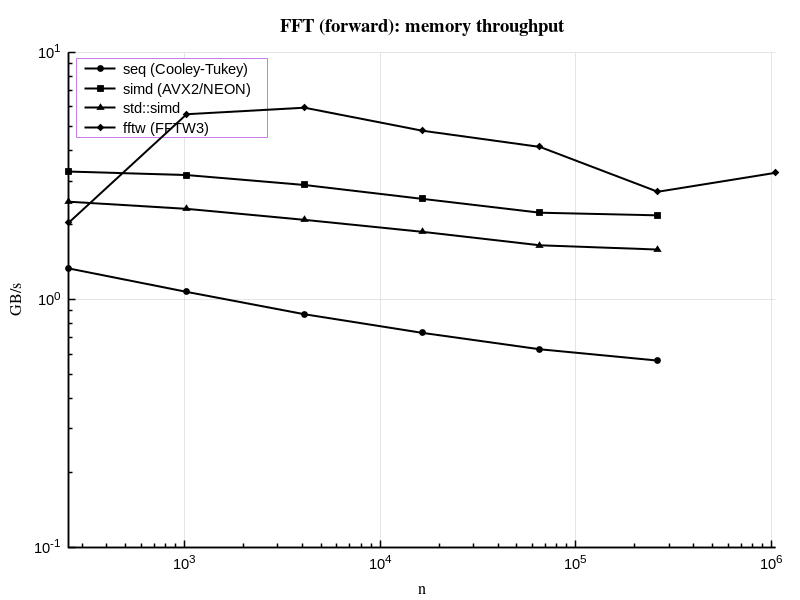
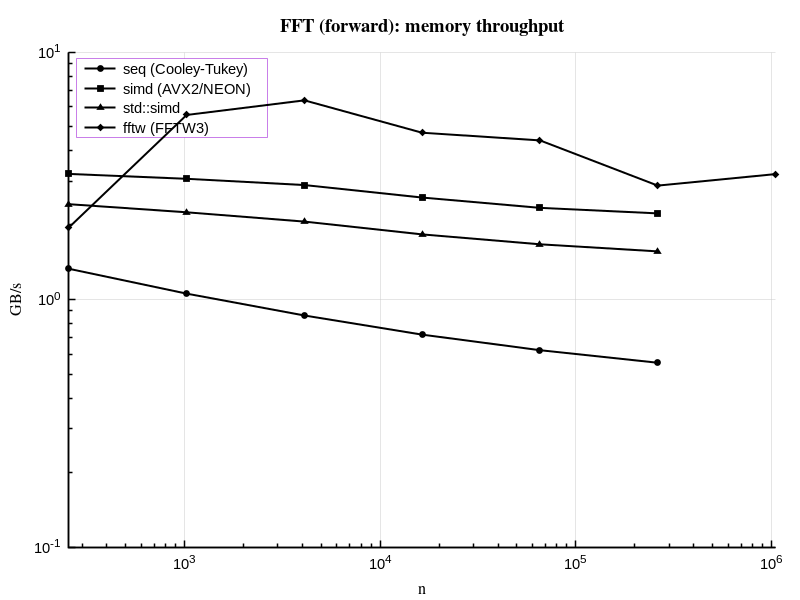
corrected plots in report

diff --git a/docs/report/index.html b/docs/report/index.html
@@ -21,7 +21,7 @@
 <div id="content"></div>
 <script>
 (function(){
-  var md = "# Numerics Library — Status Report\n\n> 2026-04-02 09:48 UTC · GNU 11.4.0 · Release\n\nAuto-generated by `make report`. Each section compares our implementation against the\nindustry-standard LAPACK\/BLAS reference. Sections without data show `[not available]`.\n\n---\n\n## Table of Contents\n\n- [Build Environment](#build-environment)\n- [Test Summary](#test-summary)\n- [Core — Vector and Matrix](#core--vector-and-matrix)\n  - [Benchmarks — Matrix Multiply](#benchmarks--matrix-multiply)\n  - [Benchmarks — Matrix-Vector Multiply](#benchmarks--matrix-vector-multiply)\n  - [Benchmarks — Dot Product](#benchmarks--dot-product)\n  - [Benchmarks — Axpy](#benchmarks--axpy)\n- [Factorizations](#factorizations)\n  - [LU Factorization](#lu-factorization)\n  - [QR Factorization](#qr-factorization)\n  - [Thomas Tridiagonal Solver](#thomas-tridiagonal-solver)\n- [Iterative Solvers](#iterative-solvers)\n  - [Conjugate Gradient](#conjugate-gradient)\n- [Banded Matrices](#banded-matrices)\n- [Eigensolvers](#eigensolvers)\n  - [Full Symmetric Eigensolver](#full-symmetric-eigensolver)\n  - [Lanczos (Matrix-Free)](#lanczos-matrix-free)\n- [Singular Value Decomposition](#singular-value-decomposition)\n  - [Full SVD](#full-svd)\n  - [Randomized Truncated SVD](#randomized-truncated-svd)\n- [Analysis](#analysis)\n- [Spectral — FFT](#spectral--fft)\n\n---\n\n## Build Environment\n\n### System\n\n| Property | Value |\n|----------|-------|\n| OS       | Linux |\n| CPU      | 8 core AMD Ryzen 7 7800X3D 8-Core Processor |\n| RAM      | 31269 MB (30.5 GB) |\n| GPU      | NVIDIA GeForce RTX 4070 SUPER |\n\n\n### Backends\n\n| Backend | Status | Notes |\n|---------|--------|-------|\n| BLAS \/ cblas | **found** | Backend::blas   -- cblas_dgemm, cblas_ddot, cblas_dgemv |\n| LAPACKE | **found** | Backend::lapack -- dgetrf, dgeqrf, dgesdd, dsyevd, dgtsv |\n| OpenMP | **found** | Backend::omp    -- parallel blocked loops |\n| FFTW3 | **found** | FFTBackend::fftw -- AVX2\/NEON optimised DFT |\n| CUDA | **found** | Backend::gpu    -- custom kernels \/ cuBLAS |\n| MPI | not found | distributed ops (experimental) |\n\n\n---\n\n## Test Summary\n\nAll test suites. A failed suite must be investigated before using the library in production.\n\n| Suite | Tests | Passed | Failed | Time |\n|-------|------:|-------:|-------:|-----:|\n| Vector | 7 | 7 | 0 | 0.0 ms |\n| Matrix | 5 | 5 | 0 | 0.0 ms |\n| MatmulPolicy | 1 | 1 | 0 | 0.0 ms |\n| MatvecPolicy | 1 | 1 | 0 | 0.0 ms |\n| CG | 3 | 3 | 0 | 0.0 ms |\n| Thomas | 3 | 3 | 0 | 0.0 ms |\n| GaussSeidel | 3 | 3 | 0 | 0.0 ms |\n| Jacobi | 3 | 3 | 0 | 0.0 ms |\n| GMRES | 4 | 4 | 0 | 0.0 ms |\n| SparseMatrix | 3 | 3 | 0 | 0.0 ms |\n| BandedMatrix | 6 | 6 | 0 | 0.0 ms |\n| BandedSolver | 11 | 11 | 0 | 70.0 ms |\n| BandedMatvec | 2 | 2 | 0 | 0.0 ms |\n| BandedNorm | 1 | 1 | 0 | 0.0 ms |\n| LU | 9 | 9 | 0 | 0.0 ms |\n| QR | 7 | 7 | 0 | 0.0 ms |\n| Roots | 9 | 9 | 0 | 0.0 ms |\n| Quadrature | 11 | 11 | 0 | 13.0 ms |\n| FFT | 13 | 13 | 0 | 2.0 ms |\n| FFTPlan | 4 | 4 | 0 | 61.0 ms |\n| ODE_Euler | 1 | 1 | 0 | 0.0 ms |\n| ODE_RK4 | 2 | 2 | 0 | 0.0 ms |\n| ODE_RK45 | 2 | 2 | 0 | 0.0 ms |\n| ODE_Stepper | 2 | 2 | 0 | 0.0 ms |\n| ODE_Verlet | 4 | 4 | 0 | 0.0 ms |\n| ODE_Yoshida4 | 3 | 3 | 0 | 0.0 ms |\n| EigSym_Jacobi | 3 | 3 | 0 | 0.0 ms |\n| EigSym_LAPACK | 3 | 3 | 0 | 0.0 ms |\n| PowerIteration | 1 | 1 | 0 | 0.0 ms |\n| Lanczos | 1 | 1 | 0 | 0.0 ms |\n| SVD_Jacobi | 3 | 3 | 0 | 0.0 ms |\n| SVD_LAPACK | 4 | 4 | 0 | 1.0 ms |\n| SVD_Randomized | 2 | 2 | 0 | 0.0 ms |\n\n\n---\n\n## Core — Vector and Matrix\n\n`Vector` and `Matrix` dispatch to the backend selected via the `Backend` enum\n(`seq → blocked → simd → blas → omp → gpu`). With BLAS available, `default_backend`\nresolves to `Backend::blas`.\n\n### Tests\n\n| Suite | Tests | Passed | Failed | Time |\n|-------|------:|-------:|-------:|-----:|\n| Vector | 7 | 7 | 0 | 0.0 ms |\n| Matrix | 5 | 5 | 0 | 0.0 ms |\n\n\n### Benchmarks — Matrix Multiply\n\nThroughput: `2 n³ \/ time` (GFLOP\/s, higher is better). Sizes n = 64…512.\n\n![Matrix multiply: GFLOP\/s vs n](plots\/matmul.png)\n\n\n| Variant | n=64 us | n=128 us | n=256 us | n=512 us |\n|---------|---------|----------|----------|----------|\n| naive | 148.1 | 1511.8 | 26663.7 | 424723.0 |\n| blocked (auto-vec) | 29.4 | 243.0 | 1956.3 | 19442.6 |\n| reg-blocked | 51.3 | 405.0 | 3308.9 | 27863.5 |\n| blocked | 30.1 | 243.1 | 1959.5 | 16421.1 |\n| simd | 16.0 | 132.1 | 1460.1 | 31236.4 |\n| blas | 11.1 | 32.0 | 139.1 | 1013.3 |\n| omp | 5727.5 | 5418.7 | 5283.2 | 5883.8 |\n| gpu | 0.3 | 0.3 | 0.3 | 0.3 |\n| Matmul_Scalar | 141.7 | 1360.1 | 24878.7 | 478828.8 |\n| Matmul_Scalar_Blocked | 67.8 | 568.3 | 4644.4 | 38583.7 |\n\n*Time in us. Lower is better.*\n\n\n### Benchmarks — Matrix-Vector Multiply\n\nMemory-bound. GB\/s = `(n² + 2n) × 8 \/ time`.\n\n*Plot not available (backend absent or benchmarks not run).*\n\n\n| Variant | n=64 GB\/s | n=128 GB\/s | n=256 GB\/s | n=512 GB\/s | n=1024 GB\/s | n=2048 GB\/s |\n|---------|-----------|------------|------------|------------|-------------|-------------|\n| seq | 17.99 | 13.12 | 11.33 | 10.51 | 10.26 | 10.09 |\n| blocked | 17.97 | 13.12 | 11.33 | 10.51 | 10.26 | 10.09 |\n| simd | 88.92 | 83.71 | 67.81 | 60.88 | 49.11 | 43.23 |\n| blas | 117.66 | 49.69 | 155.56 | 372.52 | 449.61 | 432.45 |\n| omp | 0.01 | 0.03 | 0.11 | 0.37 | 1.49 | 5.69 |\n| gpu | 119.57 | 476.53 | 1895.11 | 7545.21 | 30061.77 | 120364.42 |\n\n*Throughput in GB\/s. Higher is better.*\n\n\n### Benchmarks — Dot Product\n\n*Plot not available (backend absent or benchmarks not run).*\n\n\n| Variant | n=1024 GB\/s | n=4096 GB\/s | n=16384 GB\/s | n=65536 GB\/s | n=262144 GB\/s | n=1048576 GB\/s |\n|---------|-------------|-------------|--------------|--------------|---------------|----------------|\n| seq | 22.40 | 21.54 | 21.32 | 21.21 | 21.20 | 22.26 |\n| blas | 211.51 | 142.11 | 88.00 | 282.21 | 495.23 | 485.47 |\n| omp | 0.00 | 0.01 | 0.06 | 0.21 | 0.72 | 2.92 |\n| gpu | 2.44 | 9.75 | 38.68 | 154.58 | 55.59 | 236.07 |\n\n*Throughput in GB\/s. Higher is better.*\n\n\n### Benchmarks — Axpy (y += a·x)\n\n*Plot not available (backend absent or benchmarks not run).*\n\n\n| Variant | n=1024 GB\/s | n=4096 GB\/s | n=16384 GB\/s | n=65536 GB\/s | n=262144 GB\/s | n=1048576 GB\/s |\n|---------|-------------|-------------|--------------|--------------|---------------|----------------|\n| seq | 262.93 | 184.04 | 199.12 | 188.22 | 164.72 | 164.04 |\n| blas | 307.78 | 215.50 | 132.04 | 399.82 | 670.27 | 682.62 |\n| omp | 0.01 | 0.02 | 0.07 | 0.27 | 1.14 | 6.18 |\n| gpu | 88.71 | 360.77 | 1414.75 | 5646.60 | 22559.62 | 90374.60 |\n\n*Throughput in GB\/s. Higher is better.*\n\n\n---\n\n## Factorizations\n\nThree variants benchmarked side-by-side: **our seq**, **our omp**, **LAPACK**\n(`LAPACKE_dgetrf` \/ `LAPACKE_dgeqrf`). With LAPACK available, `lu()` and `qr()`\ndefault to `Backend::lapack`.\n\n### Tests\n\n| Suite | Tests | Passed | Failed | Time |\n|-------|------:|-------:|-------:|-----:|\n| Thomas | 3 | 3 | 0 | 0.0 ms |\n| LU | 9 | 9 | 0 | 0.0 ms |\n| QR | 7 | 7 | 0 | 0.0 ms |\n\n\n### LU Factorization\n\nLAPACK uses a blocked algorithm (BLAS-3 trailing-matrix updates via `dgemm`) that is\nsignificantly faster than our unblocked Doolittle for large n.\n\n*Plot not available (backend absent or benchmarks not run).*\n\n\n| Variant | n=64 us | n=128 us | n=256 us | n=512 us | n=1024 us |\n|---------|---------|----------|----------|----------|-----------|\n| seq | 11.4 | 97.5 | 866.5 | 8462.9 | 56296.4 |\n| omp | 11.4 | 99.1 | 866.7 | 8461.6 | 56488.9 |\n| LU<Backend::lapack> | 17.4 | 137617.6 | 224417.9 | 1305375.8 | 2997137.8 |\n\n*GFLOP\/s: 2\/3 n^3 \/ time. Higher is better.*\n\n\n### QR Factorization\n\nLAPACK (`dgeqrf` + `dorgqr`) uses blocked Householder with `dgemm` for panel updates.\n\n*Plot not available (backend absent or benchmarks not run).*\n\n\n| Variant | n=64 us | n=128 us | n=256 us | n=512 us |\n|---------|---------|----------|----------|----------|\n| seq | 195.1 | 3982.6 | 91978.8 | 1742957.2 |\n| omp | 175.7 | 3997.4 | 91749.6 | 1746472.0 |\n| QR<Backend::lapack> | 63.3 | 790.8 | 3310.6 | 21922.4 |\n\n*GFLOP\/s: 4\/3 n^3 \/ time. Higher is better.*\n\n\n### Thomas Tridiagonal Solver\n\nO(n) direct solver. `LAPACKE_dgtsv` uses the same algorithm with additional\npivoting for stability.\n\n![Thomas algorithm: time vs n](plots\/thomas.png)\n\n\n| Variant | n=64 us | n=256 us | n=1024 us | n=4096 us | n=16384 us | n=65536 us |\n|---------|---------|----------|-----------|-----------|------------|------------|\n| Thomas | 1.0 | 3.9 | 15.4 | 60.7 | 244.0 | 996.8 |\n\n*Time in us. Linear O(n) scaling expected.*\n\n\n---\n\n## Iterative Solvers\n\n### Tests\n\n| Suite | Tests | Passed | Failed | Time |\n|-------|------:|-------:|-------:|-----:|\n| CG | 3 | 3 | 0 | 0.0 ms |\n| GaussSeidel | 3 | 3 | 0 | 0.0 ms |\n| Jacobi | 3 | 3 | 0 | 0.0 ms |\n\n\n### Conjugate Gradient\n\nCG inner-product and axpy calls dispatch to `best_backend` (BLAS when available).\n\n![Conjugate gradient: time vs n](plots\/cg.png)\n\n\n| Variant | n=32 us | n=64 us | n=128 us | n=256 us |\n|---------|---------|---------|----------|----------|\n| CG | 1.4 | 2.9 | 17.0 | 21.7 |\n| gpu | 37.5 | 35.0 | 35.3 | 36.2 |\n\n*Time in us. Lower is better.*\n\n\n---\n\n## Banded Matrices\n\n### Tests\n\n*No test data -- run `make report` to generate.*\n\n\n### Benchmarks\n\n![Banded solver: time vs n](plots\/banded.png)\n\n\n| Variant | n=3 us | n=5 us | n=7 us | n=11 us | n=15 us | n=21 us | n=64 us | n=256 us | n=1024 us | n=4096 us | n=16384 us | n=65536 us | n=262144 us |\n|---------|--------|--------|--------|---------|---------|---------|---------|----------|-----------|-----------|------------|------------|-------------|\n| BandedSolve_Tridiagonal | -- | -- | -- | -- | -- | -- | 1.4 | 4.7 | 17.6 | 69.4 | 278.3 | 1502.7 | 6306.1 |\n| BandedSolve_Pentadiagonal | -- | -- | -- | -- | -- | -- | 1.7 | 5.6 | 21.4 | 84.4 | 339.5 | 2001.1 | -- |\n| BandedSolve_General_KL2_KU4 | -- | -- | -- | -- | -- | -- | 1.7 | 5.8 | 22.6 | 90.7 | 669.1 | 2313.9 | -- |\n| BandedSolve_General_KL5_KU5 | -- | -- | -- | -- | -- | -- | 2.2 | 8.0 | 30.5 | 121.5 | 884.3 | -- | -- |\n| BandedLU_Factorization | -- | -- | -- | -- | -- | -- | 0.9 | 2.4 | 8.6 | 33.6 | 134.0 | 529.0 | -- |\n| BandedLU_Solve | -- | -- | -- | -- | -- | -- | 1.1 | 3.2 | 11.7 | 45.8 | 182.6 | 729.5 | -- |\n| BandedSolve_MultiRHS | -- | -- | -- | -- | -- | -- | 11.7 | 46.2 | 184.0 | 735.6 | 2943.8 | -- | -- |\n| BandedMatvec_Tridiagonal | -- | -- | -- | -- | -- | -- | 0.6 | 1.5 | 5828.3 | 5723.1 | 5785.5 | 5984.1 | 5856.8 |\n| BandedMatvec_Pentadiagonal | -- | -- | -- | -- | -- | -- | 0.8 | 2.3 | 5738.5 | 5766.8 | 5785.9 | 5433.3 | 5800.6 |\n| BandedSolve_Bandwidth_Scaling | 72.2 | 87.1 | 99.1 | 134.5 | 181.2 | 295.9 | -- | -- | -- | -- | -- | -- | -- |\n\n*Time in us. Lower is better.*\n\n\n---\n\n## Eigensolvers\n\nThree variants: **our cyclic Jacobi (seq)**, **our Jacobi (omp)**, **LAPACK `dsyevd`**\n(divide-and-conquer, asymptotically fastest for dense matrices).\nLanczos is matrix-free and targets only k eigenvalues — it lives on a separate plot.\n\n### Tests\n\n| Suite | Tests | Passed | Failed | Time |\n|-------|------:|-------:|-------:|-----:|\n| PowerIteration | 1 | 1 | 0 | 0.0 ms |\n| Lanczos | 1 | 1 | 0 | 0.0 ms |\n\n\n### Full Symmetric Eigensolver\n\n![Symmetric eigensolver: time vs n](plots\/eigen.png)\n\n\n| Variant | n=32 us | n=64 us | n=128 us | n=256 us | n=512 us |\n|---------|---------|---------|----------|----------|----------|\n| seq | 171.1 | 1189.9 | 10779.5 | 260829.1 | 7211829.7 |\n| EigSym<Backend::lapack> | 52.5 | 178.3 | 1096.4 | 3507.1 | 20511.3 |\n\n*Time in us. Lower is better.*\n\n\n### Lanczos (Matrix-Free)\n\nk = 10 eigenvalues requested. Each step costs one matvec O(n²) plus reorthogonalisation.\n\n| Variant | n=64 us | n=128 us | n=256 us | n=512 us | n=1024 us | n=2048 us |\n|---------|---------|----------|----------|----------|-----------|-----------|\n| Lanczos | 27.1 | 196.7 | 447.3 | 816.0 | 2078.9 | 9465.7 |\n\n*Time in us (k=10 eigenvalues). Lower is better.*\n\n\n---\n\n## Singular Value Decomposition\n\nThree variants: **our one-sided Jacobi**, **randomized truncated SVD** (top k = n\/8),\n**LAPACK `dgesdd`** (divide-and-conquer, fastest full SVD).\n\n### Tests\n\n*No test data -- run `make report` to generate.*\n\n\n### Full SVD\n\n![SVD: time vs n](plots\/svd.png)\n\n\n*No benchmark data -- run `make report` to generate.*\n\n\n### Randomized Truncated SVD\n\n| Variant | n=64 us | n=128 us | n=256 us | n=512 us | n=1024 us |\n|---------|---------|----------|----------|----------|-----------|\n| SVD_Randomized | 189.9 | 2620.1 | 13943.8 | 344842.3 | 2488064.3 |\n\n*Time in us (k=n\/8 singular values). Lower is better.*\n\n\n---\n\n## Analysis\n\nRoot finding (bisection, Newton, secant) and numerical quadrature\n(Gauss-Legendre, adaptive Simpson).\n\n### Tests\n\n| Suite | Tests | Passed | Failed | Time |\n|-------|------:|-------:|-------:|-----:|\n| Roots | 9 | 9 | 0 | 0.0 ms |\n| Quadrature | 11 | 11 | 0 | 13.0 ms |\n\n\n---\n\n## Spectral — FFT\n\nBackends: `seq` (Cooley-Tukey), `simd` (AVX2\/NEON), `fftw` (FFTW3).\n\n### Tests\n\n| Suite | Tests | Passed | Failed | Time |\n|-------|------:|-------:|-------:|-----:|\n| FFT | 13 | 13 | 0 | 2.0 ms |\n| FFTPlan | 4 | 4 | 0 | 61.0 ms |\n\n\n### Benchmarks — Forward FFT\n\n![FFT throughput: GB\/s vs n](plots\/fft.png)\n\n\n| Variant | n=256 GB\/s | n=1024 GB\/s | n=4096 GB\/s | n=16384 GB\/s | n=65536 GB\/s | n=262144 GB\/s | n=1048576 GB\/s |\n|---------|------------|-------------|-------------|--------------|--------------|---------------|----------------|\n| seq (Cooley-Tukey) | 2.54 | 2.07 | 1.71 | 1.42 | 1.19 | 1.10 | -- |\n| simd (AVX2\/NEON) | 6.75 | 5.93 | 4.83 | 4.19 | 3.20 | 3.15 | -- |\n| std::simd | 4.22 | 3.67 | 3.14 | 2.62 | 2.19 | 2.10 | -- |\n| fftw (FFTW3) | 31.62 | 27.68 | 16.81 | 14.09 | 9.32 | 8.02 | 5.07 |\n\n*Throughput in GB\/s. Higher is better.*\n\n\n### Benchmarks — FFT Plan (amortised)\n\n![FFT plan throughput: GB\/s vs n](plots\/fft_plan.png)\n\n\n| Variant | n=256 GB\/s | n=1024 GB\/s | n=4096 GB\/s | n=16384 GB\/s | n=65536 GB\/s | n=262144 GB\/s | n=1048576 GB\/s |\n|---------|------------|-------------|-------------|--------------|--------------|---------------|----------------|\n| seq (Cooley-Tukey) | 2.54 | 2.07 | 1.71 | 1.42 | 1.19 | 1.10 | -- |\n| simd (AVX2\/NEON) | 6.75 | 5.93 | 4.83 | 4.19 | 3.20 | 3.15 | -- |\n| std::simd | 4.22 | 3.67 | 3.14 | 2.62 | 2.19 | 2.10 | -- |\n| fftw (FFTW3) | 31.62 | 27.68 | 16.81 | 14.09 | 9.32 | 8.02 | 5.07 |\n\n*Throughput in GB\/s. Plan creation excluded. Higher is better.*\n\n\n### Benchmarks — Real-to-Complex FFT\n\n![rFFT throughput: GB\/s vs n](plots\/rfft.png)\n\n\n| Variant | n=256 GB\/s | n=1024 GB\/s | n=4096 GB\/s | n=16384 GB\/s | n=65536 GB\/s | n=262144 GB\/s | n=1048576 GB\/s |\n|---------|------------|-------------|-------------|--------------|--------------|---------------|----------------|\n| seq (Cooley-Tukey) | 0.66 | 0.53 | 0.43 | 0.36 | 0.31 | 0.28 | -- |\n| simd (AVX2\/NEON) | 1.63 | 1.56 | 1.44 | 1.22 | 1.08 | 1.02 | -- |\n| std::simd | 1.25 | 1.17 | 1.06 | 0.94 | 0.83 | 0.77 | -- |\n| fftw (FFTW3) | 0.28 | 0.86 | 1.71 | 2.04 | 2.12 | 1.74 | 1.64 |\n\n*Throughput in GB\/s. Higher is better.*\n\n\n---\n\n*Generated by `make report`.*\n";
+  var md = "# Numerics Library — Status Report\n\n> 2026-04-02 09:48 UTC · GNU 11.4.0 · Release\n\nAuto-generated by `make report`. Each section compares our implementation against the\nindustry-standard LAPACK\/BLAS reference. Sections without data show `[not available]`.\n\n---\n\n## Table of Contents\n\n- [Build Environment](#build-environment)\n- [Test Summary](#test-summary)\n- [Core — Vector and Matrix](#core--vector-and-matrix)\n  - [Benchmarks — Matrix Multiply](#benchmarks--matrix-multiply)\n  - [Benchmarks — Matrix-Vector Multiply](#benchmarks--matrix-vector-multiply)\n  - [Benchmarks — Dot Product](#benchmarks--dot-product)\n  - [Benchmarks — Axpy](#benchmarks--axpy)\n- [Factorizations](#factorizations)\n  - [LU Factorization](#lu-factorization)\n  - [QR Factorization](#qr-factorization)\n  - [Thomas Tridiagonal Solver](#thomas-tridiagonal-solver)\n- [Iterative Solvers](#iterative-solvers)\n  - [Conjugate Gradient](#conjugate-gradient)\n- [Banded Matrices](#banded-matrices)\n- [Eigensolvers](#eigensolvers)\n  - [Full Symmetric Eigensolver](#full-symmetric-eigensolver)\n  - [Lanczos (Matrix-Free)](#lanczos-matrix-free)\n- [Singular Value Decomposition](#singular-value-decomposition)\n  - [Full SVD](#full-svd)\n  - [Randomized Truncated SVD](#randomized-truncated-svd)\n- [Analysis](#analysis)\n- [Spectral — FFT](#spectral--fft)\n\n---\n\n## Build Environment\n\n### System\n\n| Property | Value |\n|----------|-------|\n| OS       | Linux |\n| CPU      | 8 core AMD Ryzen 7 7800X3D 8-Core Processor |\n| RAM      | 31269 MB (30.5 GB) |\n| GPU      | NVIDIA GeForce RTX 4070 SUPER |\n\n\n### Backends\n\n| Backend | Status | Notes |\n|---------|--------|-------|\n| BLAS \/ cblas | **found** | Backend::blas   -- cblas_dgemm, cblas_ddot, cblas_dgemv |\n| LAPACKE | **found** | Backend::lapack -- dgetrf, dgeqrf, dgesdd, dsyevd, dgtsv |\n| OpenMP | **found** | Backend::omp    -- parallel blocked loops |\n| FFTW3 | **found** | FFTBackend::fftw -- AVX2\/NEON optimised DFT |\n| CUDA | **found** | Backend::gpu    -- custom kernels \/ cuBLAS |\n| MPI | not found | distributed ops (experimental) |\n\n\n---\n\n## Test Summary\n\nAll test suites. A failed suite must be investigated before using the library in production.\n\n| Suite | Tests | Passed | Failed | Time |\n|-------|------:|-------:|-------:|-----:|\n| Vector | 7 | 7 | 0 | 0.0 ms |\n| Matrix | 5 | 5 | 0 | 0.0 ms |\n| MatmulPolicy | 1 | 1 | 0 | 0.0 ms |\n| MatvecPolicy | 1 | 1 | 0 | 0.0 ms |\n| CG | 3 | 3 | 0 | 0.0 ms |\n| Thomas | 3 | 3 | 0 | 0.0 ms |\n| GaussSeidel | 3 | 3 | 0 | 0.0 ms |\n| Jacobi | 3 | 3 | 0 | 0.0 ms |\n| GMRES | 4 | 4 | 0 | 0.0 ms |\n| SparseMatrix | 3 | 3 | 0 | 0.0 ms |\n| BandedMatrix | 6 | 6 | 0 | 0.0 ms |\n| BandedSolver | 11 | 11 | 0 | 27.0 ms |\n| BandedMatvec | 2 | 2 | 0 | 0.0 ms |\n| BandedNorm | 1 | 1 | 0 | 0.0 ms |\n| LU | 9 | 9 | 0 | 0.0 ms |\n| QR | 7 | 7 | 0 | 0.0 ms |\n| Roots | 9 | 9 | 0 | 0.0 ms |\n| Quadrature | 11 | 11 | 0 | 32.0 ms |\n| FFT | 13 | 13 | 0 | 3.0 ms |\n| FFTPlan | 4 | 4 | 0 | 60.0 ms |\n| ODE_Euler | 1 | 1 | 0 | 0.0 ms |\n| ODE_RK4 | 2 | 2 | 0 | 0.0 ms |\n| ODE_RK45 | 2 | 2 | 0 | 0.0 ms |\n| ODE_Stepper | 2 | 2 | 0 | 0.0 ms |\n| ODE_Verlet | 4 | 4 | 0 | 0.0 ms |\n| ODE_Yoshida4 | 3 | 3 | 0 | 0.0 ms |\n| EigSym_Jacobi | 3 | 3 | 0 | 0.0 ms |\n| EigSym_LAPACK | 3 | 3 | 0 | 0.0 ms |\n| PowerIteration | 1 | 1 | 0 | 0.0 ms |\n| Lanczos | 1 | 1 | 0 | 0.0 ms |\n| SVD_Jacobi | 3 | 3 | 0 | 0.0 ms |\n| SVD_LAPACK | 4 | 4 | 0 | 0.0 ms |\n| SVD_Randomized | 2 | 2 | 0 | 0.0 ms |\n\n\n---\n\n## Core — Vector and Matrix\n\n`Vector` and `Matrix` dispatch to the backend selected via the `Backend` enum\n(`seq → blocked → simd → blas → omp → gpu`). With BLAS available, `default_backend`\nresolves to `Backend::blas`.\n\n### Tests\n\n| Suite | Tests | Passed | Failed | Time |\n|-------|------:|-------:|-------:|-----:|\n| Vector | 7 | 7 | 0 | 0.0 ms |\n| Matrix | 5 | 5 | 0 | 0.0 ms |\n\n\n### Benchmarks — Matrix Multiply\n\nThroughput: `2 n³ \/ time` (GFLOP\/s, higher is better). Sizes n = 64…512.\n\n![Matrix multiply: GFLOP\/s vs n](plots\/matmul.png)\n\n\n| Variant | n=64 us | n=128 us | n=256 us | n=512 us |\n|---------|---------|----------|----------|----------|\n| naive | 137.1 | 1680.2 | 28337.4 | 585693.5 |\n| blocked (auto-vec) | 24.3 | 216.6 | 1754.0 | 18719.1 |\n| reg-blocked | 50.9 | 407.9 | 3305.9 | 28063.9 |\n| blocked | 24.5 | 214.2 | 1757.2 | 15410.3 |\n| simd | 16.3 | 135.5 | 1480.6 | 31339.6 |\n| blas | 11.1 | 33.4 | 156.4 | 1024.5 |\n| omp | 5293.6 | 5548.3 | 5727.6 | 6024.8 |\n| gpu | 0.3 | 0.3 | 0.3 | 0.3 |\n| Matmul_Scalar | 122.5 | 1318.4 | 27196.2 | 483028.8 |\n| Matmul_Scalar_Blocked | 109.1 | 884.0 | 7148.2 | 57620.9 |\n\n*Time in us. Lower is better.*\n\n\n### Benchmarks — Matrix-Vector Multiply\n\nMemory-bound. GB\/s = `(n² + 2n) × 8 \/ time`.\n\n*Plot not available (backend absent or benchmarks not run).*\n\n\n| Variant | n=64 GB\/s | n=128 GB\/s | n=256 GB\/s | n=512 GB\/s | n=1024 GB\/s | n=2048 GB\/s |\n|---------|-----------|------------|------------|------------|-------------|-------------|\n| seq | 17.72 | 12.89 | 11.15 | 10.47 | 10.18 | 10.02 |\n| blocked | 17.82 | 12.97 | 11.24 | 10.51 | 10.17 | 9.99 |\n| simd | 74.72 | 67.13 | 56.24 | 52.36 | 44.79 | 41.21 |\n| blas | 138.07 | 33.52 | 102.74 | 286.16 | 337.26 | 370.94 |\n| omp | 0.01 | 0.02 | 0.10 | 0.46 | 1.55 | 5.55 |\n| gpu | 112.57 | 457.19 | 1814.34 | 7282.18 | 29053.55 | 115805.24 |\n\n*Throughput in GB\/s. Higher is better.*\n\n\n### Benchmarks — Dot Product\n\n*Plot not available (backend absent or benchmarks not run).*\n\n\n| Variant | n=1024 GB\/s | n=4096 GB\/s | n=16384 GB\/s | n=65536 GB\/s | n=262144 GB\/s | n=1048576 GB\/s |\n|---------|-------------|-------------|--------------|--------------|---------------|----------------|\n| seq | 22.18 | 21.31 | 21.15 | 24.09 | 21.04 | 26.21 |\n| blas | 275.35 | 154.86 | 81.97 | 239.63 | 373.17 | 415.35 |\n| omp | 0.00 | 0.01 | 0.04 | 0.20 | 0.88 | 2.90 |\n| gpu | 2.33 | 9.30 | 37.14 | 149.28 | 54.03 | 229.66 |\n\n*Throughput in GB\/s. Higher is better.*\n\n\n### Benchmarks — Axpy (y += a·x)\n\n*Plot not available (backend absent or benchmarks not run).*\n\n\n| Variant | n=1024 GB\/s | n=4096 GB\/s | n=16384 GB\/s | n=65536 GB\/s | n=262144 GB\/s | n=1048576 GB\/s |\n|---------|-------------|-------------|--------------|--------------|---------------|----------------|\n| seq | 377.65 | 216.29 | 215.78 | 171.20 | 186.28 | 181.26 |\n| blas | 342.39 | 222.09 | 118.81 | 321.30 | 626.73 | 532.30 |\n| omp | 0.00 | 0.02 | 0.07 | 0.29 | 1.13 | 9.15 |\n| gpu | 87.01 | 352.31 | 1386.24 | 5566.75 | 22257.66 | 89055.82 |\n\n*Throughput in GB\/s. Higher is better.*\n\n\n---\n\n## Factorizations\n\nThree variants benchmarked side-by-side: **our seq**, **our omp**, **LAPACK**\n(`LAPACKE_dgetrf` \/ `LAPACKE_dgeqrf`). With LAPACK available, `lu()` and `qr()`\ndefault to `Backend::lapack`.\n\n### Tests\n\n| Suite | Tests | Passed | Failed | Time |\n|-------|------:|-------:|-------:|-----:|\n| Thomas | 3 | 3 | 0 | 0.0 ms |\n| LU | 9 | 9 | 0 | 0.0 ms |\n| QR | 7 | 7 | 0 | 0.0 ms |\n\n\n### LU Factorization\n\nLAPACK uses a blocked algorithm (BLAS-3 trailing-matrix updates via `dgemm`) that is\nsignificantly faster than our unblocked Doolittle for large n.\n\n*Plot not available (backend absent or benchmarks not run).*\n\n\n| Variant | n=64 us | n=128 us | n=256 us | n=512 us | n=1024 us |\n|---------|---------|----------|----------|----------|-----------|\n| seq | 12.6 | 104.2 | 901.4 | 8940.6 | 58868.5 |\n| omp | 12.5 | 103.5 | 897.7 | 8972.0 | 58615.8 |\n| LU<Backend::lapack> | 17.6 | 71441.3 | 544241.2 | 893087.1 | 856991.3 |\n\n*GFLOP\/s: 2\/3 n^3 \/ time. Higher is better.*\n\n\n### QR Factorization\n\nLAPACK (`dgeqrf` + `dorgqr`) uses blocked Householder with `dgemm` for panel updates.\n\n*Plot not available (backend absent or benchmarks not run).*\n\n\n| Variant | n=64 us | n=128 us | n=256 us | n=512 us |\n|---------|---------|----------|----------|----------|\n| seq | 205.2 | 3925.9 | 87611.2 | 1711234.2 |\n| omp | 187.3 | 3899.2 | 88792.3 | 1712718.3 |\n| QR<Backend::lapack> | 63.4 | 826.9 | 2903.2 | 18711.8 |\n\n*GFLOP\/s: 4\/3 n^3 \/ time. Higher is better.*\n\n\n### Thomas Tridiagonal Solver\n\nO(n) direct solver. `LAPACKE_dgtsv` uses the same algorithm with additional\npivoting for stability.\n\n![Thomas algorithm: time vs n](plots\/thomas.png)\n\n\n| Variant | n=64 us | n=256 us | n=1024 us | n=4096 us | n=16384 us | n=65536 us |\n|---------|---------|----------|-----------|-----------|------------|------------|\n| Thomas | 1.0 | 4.0 | 15.6 | 61.7 | 246.0 | 986.2 |\n\n*Time in us. Linear O(n) scaling expected.*\n\n\n---\n\n## Iterative Solvers\n\n### Tests\n\n| Suite | Tests | Passed | Failed | Time |\n|-------|------:|-------:|-------:|-----:|\n| CG | 3 | 3 | 0 | 0.0 ms |\n| GaussSeidel | 3 | 3 | 0 | 0.0 ms |\n| Jacobi | 3 | 3 | 0 | 0.0 ms |\n\n\n### Conjugate Gradient\n\nCG inner-product and axpy calls dispatch to `best_backend` (BLAS when available).\n\n![Conjugate gradient: time vs n](plots\/cg.png)\n\n\n| Variant | n=32 us | n=64 us | n=128 us | n=256 us |\n|---------|---------|---------|----------|----------|\n| CG | 1.4 | 2.5 | 20.6 | 23.8 |\n| gpu | 39.2 | 37.0 | 37.6 | 37.6 |\n\n*Time in us. Lower is better.*\n\n\n---\n\n## Banded Matrices\n\n### Tests\n\n*No test data -- run `make report` to generate.*\n\n\n### Benchmarks\n\n![Banded solver: time vs n](plots\/banded.png)\n\n\n| Variant | n=3 us | n=5 us | n=7 us | n=11 us | n=15 us | n=21 us | n=64 us | n=256 us | n=1024 us | n=4096 us | n=16384 us | n=65536 us | n=262144 us |\n|---------|--------|--------|--------|---------|---------|---------|---------|----------|-----------|-----------|------------|------------|-------------|\n| BandedSolve_Tridiagonal | -- | -- | -- | -- | -- | -- | 1.4 | 4.7 | 17.8 | 70.0 | 281.4 | 1514.0 | 6358.4 |\n| BandedSolve_Pentadiagonal | -- | -- | -- | -- | -- | -- | 1.7 | 5.6 | 21.6 | 84.9 | 343.3 | 2010.1 | -- |\n| BandedSolve_General_KL2_KU4 | -- | -- | -- | -- | -- | -- | 1.7 | 5.8 | 22.6 | 90.7 | 660.6 | 2329.8 | -- |\n| BandedSolve_General_KL5_KU5 | -- | -- | -- | -- | -- | -- | 2.1 | 7.8 | 30.3 | 122.7 | 882.2 | -- | -- |\n| BandedLU_Factorization | -- | -- | -- | -- | -- | -- | 0.9 | 2.5 | 8.8 | 34.0 | 135.4 | 537.2 | -- |\n| BandedLU_Solve | -- | -- | -- | -- | -- | -- | 1.1 | 3.2 | 11.9 | 46.3 | 185.2 | 747.5 | -- |\n| BandedSolve_MultiRHS | -- | -- | -- | -- | -- | -- | 12.0 | 46.7 | 186.2 | 742.7 | 3041.3 | -- | -- |\n| BandedMatvec_Tridiagonal | -- | -- | -- | -- | -- | -- | 0.5 | 1.5 | 5083.5 | 3498.8 | 5352.4 | 5637.0 | 5621.0 |\n| BandedMatvec_Pentadiagonal | -- | -- | -- | -- | -- | -- | 0.7 | 2.3 | 5896.0 | 5563.9 | 5906.9 | 5759.0 | 5656.0 |\n| BandedSolve_Bandwidth_Scaling | 73.5 | 85.6 | 99.6 | 137.1 | 183.3 | 293.9 | -- | -- | -- | -- | -- | -- | -- |\n\n*Time in us. Lower is better.*\n\n\n---\n\n## Eigensolvers\n\nThree variants: **our cyclic Jacobi (seq)**, **our Jacobi (omp)**, **LAPACK `dsyevd`**\n(divide-and-conquer, asymptotically fastest for dense matrices).\nLanczos is matrix-free and targets only k eigenvalues — it lives on a separate plot.\n\n### Tests\n\n| Suite | Tests | Passed | Failed | Time |\n|-------|------:|-------:|-------:|-----:|\n| PowerIteration | 1 | 1 | 0 | 0.0 ms |\n| Lanczos | 1 | 1 | 0 | 0.0 ms |\n\n\n### Full Symmetric Eigensolver\n\n![Symmetric eigensolver: time vs n](plots\/eigen.png)\n\n\n| Variant | n=32 us | n=64 us | n=128 us | n=256 us | n=512 us |\n|---------|---------|---------|----------|----------|----------|\n| seq | 161.4 | 1170.9 | 10559.8 | 266403.9 | 7169476.9 |\n| EigSym<Backend::lapack> | 51.1 | 177.6 | 962.8 | 3701.5 | 19275.6 |\n\n*Time in us. Lower is better.*\n\n\n### Lanczos (Matrix-Free)\n\nk = 10 eigenvalues requested. Each step costs one matvec O(n²) plus reorthogonalisation.\n\n| Variant | n=64 us | n=128 us | n=256 us | n=512 us | n=1024 us | n=2048 us |\n|---------|---------|----------|----------|----------|-----------|-----------|\n| Lanczos | 28.9 | 188.2 | 402.4 | 952.6 | 2118.0 | 5831.3 |\n\n*Time in us (k=10 eigenvalues). Lower is better.*\n\n\n---\n\n## Singular Value Decomposition\n\nThree variants: **our one-sided Jacobi**, **randomized truncated SVD** (top k = n\/8),\n**LAPACK `dgesdd`** (divide-and-conquer, fastest full SVD).\n\n### Tests\n\n*No test data -- run `make report` to generate.*\n\n\n### Full SVD\n\n![SVD: time vs n](plots\/svd.png)\n\n\n*No benchmark data -- run `make report` to generate.*\n\n\n### Randomized Truncated SVD\n\n| Variant | n=64 us | n=128 us | n=256 us | n=512 us | n=1024 us |\n|---------|---------|----------|----------|----------|-----------|\n| SVD_Randomized | 193.1 | 1494.2 | 15365.3 | 292015.1 | 2423553.2 |\n\n*Time in us (k=n\/8 singular values). Lower is better.*\n\n\n---\n\n## Analysis\n\nRoot finding (bisection, Newton, secant) and numerical quadrature\n(Gauss-Legendre, adaptive Simpson).\n\n### Tests\n\n| Suite | Tests | Passed | Failed | Time |\n|-------|------:|-------:|-------:|-----:|\n| Roots | 9 | 9 | 0 | 0.0 ms |\n| Quadrature | 11 | 11 | 0 | 32.0 ms |\n\n\n---\n\n## Spectral — FFT\n\nBackends: `seq` (Cooley-Tukey), `simd` (AVX2\/NEON), `fftw` (FFTW3).\n\n### Tests\n\n| Suite | Tests | Passed | Failed | Time |\n|-------|------:|-------:|-------:|-----:|\n| FFT | 13 | 13 | 0 | 3.0 ms |\n| FFTPlan | 4 | 4 | 0 | 60.0 ms |\n\n\n### Benchmarks — Forward FFT\n\n![FFT throughput: GB\/s vs n](plots\/fft.png)\n\n\n| Variant | n=256 GB\/s | n=1024 GB\/s | n=4096 GB\/s | n=16384 GB\/s | n=65536 GB\/s | n=262144 GB\/s | n=1048576 GB\/s |\n|---------|------------|-------------|-------------|--------------|--------------|---------------|----------------|\n| seq (Cooley-Tukey) | 2.40 | 1.93 | 1.64 | 1.37 | 1.18 | 1.06 | -- |\n| simd (AVX2\/NEON) | 6.98 | 6.17 | 4.96 | 4.04 | 3.41 | 3.29 | -- |\n| std::simd | 4.20 | 3.63 | 3.14 | 2.54 | 2.25 | 2.10 | -- |\n| fftw (FFTW3) | 38.75 | 28.33 | 16.44 | 15.26 | 10.47 | 8.67 | 5.18 |\n\n*Throughput in GB\/s. Higher is better.*\n\n\n### Benchmarks — FFT Plan (amortised)\n\n![FFT plan throughput: GB\/s vs n](plots\/fft_plan.png)\n\n\n| Variant | n=256 GB\/s | n=1024 GB\/s | n=4096 GB\/s | n=16384 GB\/s | n=65536 GB\/s | n=262144 GB\/s | n=1048576 GB\/s |\n|---------|------------|-------------|-------------|--------------|--------------|---------------|----------------|\n| seq (Cooley-Tukey) | 2.40 | 1.93 | 1.64 | 1.37 | 1.18 | 1.06 | -- |\n| simd (AVX2\/NEON) | 6.98 | 6.17 | 4.96 | 4.04 | 3.41 | 3.29 | -- |\n| std::simd | 4.20 | 3.63 | 3.14 | 2.54 | 2.25 | 2.10 | -- |\n| fftw (FFTW3) | 38.75 | 28.33 | 16.44 | 15.26 | 10.47 | 8.67 | 5.18 |\n\n*Throughput in GB\/s. Plan creation excluded. Higher is better.*\n\n\n### Benchmarks — Real-to-Complex FFT\n\n![rFFT throughput: GB\/s vs n](plots\/rfft.png)\n\n\n| Variant | n=256 GB\/s | n=1024 GB\/s | n=4096 GB\/s | n=16384 GB\/s | n=65536 GB\/s | n=262144 GB\/s | n=1048576 GB\/s |\n|---------|------------|-------------|-------------|--------------|--------------|---------------|----------------|\n| seq (Cooley-Tukey) | 0.65 | 0.52 | 0.43 | 0.36 | 0.31 | 0.27 | -- |\n| simd (AVX2\/NEON) | 1.62 | 1.61 | 1.45 | 1.27 | 1.14 | 1.07 | -- |\n| std::simd | 1.23 | 1.15 | 1.04 | 0.91 | 0.82 | 0.77 | -- |\n| fftw (FFTW3) | 0.28 | 0.84 | 1.68 | 2.01 | 2.16 | 1.76 | 1.66 |\n\n*Throughput in GB\/s. Higher is better.*\n\n\n---\n\n*Generated by `make report`.*\n";
   var html = marked.parse(md);
   // Inject id attributes into headings so TOC anchor links work.
   // Algorithm mirrors GitHub: lowercase, strip non-(alnum|space|hyphen), spaces→hyphens.

diff --git a/benchmarks/bench_plot.hpp b/benchmarks/bench_plot.hpp
@@ -122,9 +122,9 @@ static void plot_matmul(Gnuplot& gp, const std::vector<Run>& runs,
         {"Matmul_Naive",      "naive",       1},
         {"Matmul_Blocked",    "blocked",     2},
         {"Matmul_RegBlocked", "reg-blocked", 3},
-        {"Backend::simd",     "simd",        4},
-        {"Backend::blas",     "blas",        5},
-        {"Backend::omp",      "omp",         6},
+        {"BM_Matmul<Backend::simd",     "simd",        4},
+        {"BM_Matmul<Backend::blas",     "blas",        5},
+        {"BM_Matmul<Backend::omp",      "omp",         6},
     };
 
     // collect non-empty series first
@@ -380,15 +380,28 @@ static void plot_fft(Gnuplot& gp, const std::vector<Run>& runs,
 static void plot_banded(Gnuplot& gp, const std::vector<Run>& runs,
                          const std::string& outdir,
                          const std::string& ext = ".pdf") {
-    auto data = series_by_time(runs, "BM_Band");
+    struct Variant { std::string key; std::string label; int ls; };
+    std::vector<Variant> variants = {
+        {"BM_BandedSolve_Tridiagonal",  "tridiagonal",  1},
+        {"BM_BandedSolve_Pentadiagonal","pentadiagonal", 2},
+        {"BM_BandedSolve_General_KL2",  "general (kl=2)",3},
+        {"BM_BandedSolve_General_KL5",  "general (kl=5)",4},
+    };
+    std::vector<std::pair<Variant, Series>> data;
+    for (auto& v : variants) {
+        auto s = series_by_time(runs, v.key);
+        if (!s.empty()) data.emplace_back(v, std::move(s));
+    }
     if (data.empty()) return;
     gp << "set output '" + outdir + "/banded" + ext + "'\n"
        << "set title 'Banded Solver: time vs system size' font 'Times-Bold,14'\n"
        << "set xlabel 'n' font 'Times,12'\n"
        << "set ylabel 'Time ({/Symbol m}s)' font 'Times,12'\n";
     set_loglog(gp);
-    gp << plot_cmd({{"banded", 1}});
-    gp.send1d(data);
+    std::vector<std::pair<std::string,int>> labels;
+    for (auto& [v, _] : data) labels.emplace_back(v.label, v.ls);
+    gp << plot_cmd(labels);
+    for (auto& [_, s] : data) gp.send1d(s);
 }
 
 /// lu.pdf  -- GFLOP/s vs n: our seq vs our omp vs LAPACK

diff --git a/docs/report/REPORT.md b/docs/report/REPORT.md
@@ -77,15 +77,15 @@ All test suites. A failed suite must be investigated before using the library in
 | GMRES | 4 | 4 | 0 | 0.0 ms |
 | SparseMatrix | 3 | 3 | 0 | 0.0 ms |
 | BandedMatrix | 6 | 6 | 0 | 0.0 ms |
-| BandedSolver | 11 | 11 | 0 | 70.0 ms |
+| BandedSolver | 11 | 11 | 0 | 27.0 ms |
 | BandedMatvec | 2 | 2 | 0 | 0.0 ms |
 | BandedNorm | 1 | 1 | 0 | 0.0 ms |
 | LU | 9 | 9 | 0 | 0.0 ms |
 | QR | 7 | 7 | 0 | 0.0 ms |
 | Roots | 9 | 9 | 0 | 0.0 ms |
-| Quadrature | 11 | 11 | 0 | 13.0 ms |
-| FFT | 13 | 13 | 0 | 2.0 ms |
-| FFTPlan | 4 | 4 | 0 | 61.0 ms |
+| Quadrature | 11 | 11 | 0 | 32.0 ms |
+| FFT | 13 | 13 | 0 | 3.0 ms |
+| FFTPlan | 4 | 4 | 0 | 60.0 ms |
 | ODE_Euler | 1 | 1 | 0 | 0.0 ms |
 | ODE_RK4 | 2 | 2 | 0 | 0.0 ms |
 | ODE_RK45 | 2 | 2 | 0 | 0.0 ms |
@@ -97,7 +97,7 @@ All test suites. A failed suite must be investigated before using the library in
 | PowerIteration | 1 | 1 | 0 | 0.0 ms |
 | Lanczos | 1 | 1 | 0 | 0.0 ms |
 | SVD_Jacobi | 3 | 3 | 0 | 0.0 ms |
-| SVD_LAPACK | 4 | 4 | 0 | 1.0 ms |
+| SVD_LAPACK | 4 | 4 | 0 | 0.0 ms |
 | SVD_Randomized | 2 | 2 | 0 | 0.0 ms |
 
 
@@ -126,16 +126,16 @@ Throughput: `2 n³ / time` (GFLOP/s, higher is better). Sizes n = 64…512.
 
 | Variant | n=64 us | n=128 us | n=256 us | n=512 us |
 |---------|---------|----------|----------|----------|
-| naive | 148.1 | 1511.8 | 26663.7 | 424723.0 |
-| blocked (auto-vec) | 29.4 | 243.0 | 1956.3 | 19442.6 |
-| reg-blocked | 51.3 | 405.0 | 3308.9 | 27863.5 |
-| blocked | 30.1 | 243.1 | 1959.5 | 16421.1 |
-| simd | 16.0 | 132.1 | 1460.1 | 31236.4 |
-| blas | 11.1 | 32.0 | 139.1 | 1013.3 |
-| omp | 5727.5 | 5418.7 | 5283.2 | 5883.8 |
+| naive | 137.1 | 1680.2 | 28337.4 | 585693.5 |
+| blocked (auto-vec) | 24.3 | 216.6 | 1754.0 | 18719.1 |
+| reg-blocked | 50.9 | 407.9 | 3305.9 | 28063.9 |
+| blocked | 24.5 | 214.2 | 1757.2 | 15410.3 |
+| simd | 16.3 | 135.5 | 1480.6 | 31339.6 |
+| blas | 11.1 | 33.4 | 156.4 | 1024.5 |
+| omp | 5293.6 | 5548.3 | 5727.6 | 6024.8 |
 | gpu | 0.3 | 0.3 | 0.3 | 0.3 |
-| Matmul_Scalar | 141.7 | 1360.1 | 24878.7 | 478828.8 |
-| Matmul_Scalar_Blocked | 67.8 | 568.3 | 4644.4 | 38583.7 |
+| Matmul_Scalar | 122.5 | 1318.4 | 27196.2 | 483028.8 |
+| Matmul_Scalar_Blocked | 109.1 | 884.0 | 7148.2 | 57620.9 |
 
 *Time in us. Lower is better.*
 
@@ -149,12 +149,12 @@ Memory-bound. GB/s = `(n² + 2n) × 8 / time`.
 
 | Variant | n=64 GB/s | n=128 GB/s | n=256 GB/s | n=512 GB/s | n=1024 GB/s | n=2048 GB/s |
 |---------|-----------|------------|------------|------------|-------------|-------------|
-| seq | 17.99 | 13.12 | 11.33 | 10.51 | 10.26 | 10.09 |
-| blocked | 17.97 | 13.12 | 11.33 | 10.51 | 10.26 | 10.09 |
-| simd | 88.92 | 83.71 | 67.81 | 60.88 | 49.11 | 43.23 |
-| blas | 117.66 | 49.69 | 155.56 | 372.52 | 449.61 | 432.45 |
-| omp | 0.01 | 0.03 | 0.11 | 0.37 | 1.49 | 5.69 |
-| gpu | 119.57 | 476.53 | 1895.11 | 7545.21 | 30061.77 | 120364.42 |
+| seq | 17.72 | 12.89 | 11.15 | 10.47 | 10.18 | 10.02 |
+| blocked | 17.82 | 12.97 | 11.24 | 10.51 | 10.17 | 9.99 |
+| simd | 74.72 | 67.13 | 56.24 | 52.36 | 44.79 | 41.21 |
+| blas | 138.07 | 33.52 | 102.74 | 286.16 | 337.26 | 370.94 |
+| omp | 0.01 | 0.02 | 0.10 | 0.46 | 1.55 | 5.55 |
+| gpu | 112.57 | 457.19 | 1814.34 | 7282.18 | 29053.55 | 115805.24 |
 
 *Throughput in GB/s. Higher is better.*
 
@@ -166,10 +166,10 @@ Memory-bound. GB/s = `(n² + 2n) × 8 / time`.
 
 | Variant | n=1024 GB/s | n=4096 GB/s | n=16384 GB/s | n=65536 GB/s | n=262144 GB/s | n=1048576 GB/s |
 |---------|-------------|-------------|--------------|--------------|---------------|----------------|
-| seq | 22.40 | 21.54 | 21.32 | 21.21 | 21.20 | 22.26 |
-| blas | 211.51 | 142.11 | 88.00 | 282.21 | 495.23 | 485.47 |
-| omp | 0.00 | 0.01 | 0.06 | 0.21 | 0.72 | 2.92 |
-| gpu | 2.44 | 9.75 | 38.68 | 154.58 | 55.59 | 236.07 |
+| seq | 22.18 | 21.31 | 21.15 | 24.09 | 21.04 | 26.21 |
+| blas | 275.35 | 154.86 | 81.97 | 239.63 | 373.17 | 415.35 |
+| omp | 0.00 | 0.01 | 0.04 | 0.20 | 0.88 | 2.90 |
+| gpu | 2.33 | 9.30 | 37.14 | 149.28 | 54.03 | 229.66 |
 
 *Throughput in GB/s. Higher is better.*
 
@@ -181,10 +181,10 @@ Memory-bound. GB/s = `(n² + 2n) × 8 / time`.
 
 | Variant | n=1024 GB/s | n=4096 GB/s | n=16384 GB/s | n=65536 GB/s | n=262144 GB/s | n=1048576 GB/s |
 |---------|-------------|-------------|--------------|--------------|---------------|----------------|
-| seq | 262.93 | 184.04 | 199.12 | 188.22 | 164.72 | 164.04 |
-| blas | 307.78 | 215.50 | 132.04 | 399.82 | 670.27 | 682.62 |
-| omp | 0.01 | 0.02 | 0.07 | 0.27 | 1.14 | 6.18 |
-| gpu | 88.71 | 360.77 | 1414.75 | 5646.60 | 22559.62 | 90374.60 |
+| seq | 377.65 | 216.29 | 215.78 | 171.20 | 186.28 | 181.26 |
+| blas | 342.39 | 222.09 | 118.81 | 321.30 | 626.73 | 532.30 |
+| omp | 0.00 | 0.02 | 0.07 | 0.29 | 1.13 | 9.15 |
+| gpu | 87.01 | 352.31 | 1386.24 | 5566.75 | 22257.66 | 89055.82 |
 
 *Throughput in GB/s. Higher is better.*
 
@@ -216,9 +216,9 @@ significantly faster than our unblocked Doolittle for large n.
 
 | Variant | n=64 us | n=128 us | n=256 us | n=512 us | n=1024 us |
 |---------|---------|----------|----------|----------|-----------|
-| seq | 11.4 | 97.5 | 866.5 | 8462.9 | 56296.4 |
-| omp | 11.4 | 99.1 | 866.7 | 8461.6 | 56488.9 |
-| LU<Backend::lapack> | 17.4 | 137617.6 | 224417.9 | 1305375.8 | 2997137.8 |
+| seq | 12.6 | 104.2 | 901.4 | 8940.6 | 58868.5 |
+| omp | 12.5 | 103.5 | 897.7 | 8972.0 | 58615.8 |
+| LU<Backend::lapack> | 17.6 | 71441.3 | 544241.2 | 893087.1 | 856991.3 |
 
 *GFLOP/s: 2/3 n^3 / time. Higher is better.*
 
@@ -232,9 +232,9 @@ LAPACK (`dgeqrf` + `dorgqr`) uses blocked Householder with `dgemm` for panel upd
 
 | Variant | n=64 us | n=128 us | n=256 us | n=512 us |
 |---------|---------|----------|----------|----------|
-| seq | 195.1 | 3982.6 | 91978.8 | 1742957.2 |
-| omp | 175.7 | 3997.4 | 91749.6 | 1746472.0 |
-| QR<Backend::lapack> | 63.3 | 790.8 | 3310.6 | 21922.4 |
+| seq | 205.2 | 3925.9 | 87611.2 | 1711234.2 |
+| omp | 187.3 | 3899.2 | 88792.3 | 1712718.3 |
+| QR<Backend::lapack> | 63.4 | 826.9 | 2903.2 | 18711.8 |
 
 *GFLOP/s: 4/3 n^3 / time. Higher is better.*
 
@@ -249,7 +249,7 @@ pivoting for stability.
 
 | Variant | n=64 us | n=256 us | n=1024 us | n=4096 us | n=16384 us | n=65536 us |
 |---------|---------|----------|-----------|-----------|------------|------------|
-| Thomas | 1.0 | 3.9 | 15.4 | 60.7 | 244.0 | 996.8 |
+| Thomas | 1.0 | 4.0 | 15.6 | 61.7 | 246.0 | 986.2 |
 
 *Time in us. Linear O(n) scaling expected.*
 
@@ -276,8 +276,8 @@ CG inner-product and axpy calls dispatch to `best_backend` (BLAS when available)
 
 | Variant | n=32 us | n=64 us | n=128 us | n=256 us |
 |---------|---------|---------|----------|----------|
-| CG | 1.4 | 2.9 | 17.0 | 21.7 |
-| gpu | 37.5 | 35.0 | 35.3 | 36.2 |
+| CG | 1.4 | 2.5 | 20.6 | 23.8 |
+| gpu | 39.2 | 37.0 | 37.6 | 37.6 |
 
 *Time in us. Lower is better.*
 
@@ -298,16 +298,16 @@ CG inner-product and axpy calls dispatch to `best_backend` (BLAS when available)
 
 | Variant | n=3 us | n=5 us | n=7 us | n=11 us | n=15 us | n=21 us | n=64 us | n=256 us | n=1024 us | n=4096 us | n=16384 us | n=65536 us | n=262144 us |
 |---------|--------|--------|--------|---------|---------|---------|---------|----------|-----------|-----------|------------|------------|-------------|
-| BandedSolve_Tridiagonal | -- | -- | -- | -- | -- | -- | 1.4 | 4.7 | 17.6 | 69.4 | 278.3 | 1502.7 | 6306.1 |
-| BandedSolve_Pentadiagonal | -- | -- | -- | -- | -- | -- | 1.7 | 5.6 | 21.4 | 84.4 | 339.5 | 2001.1 | -- |
-| BandedSolve_General_KL2_KU4 | -- | -- | -- | -- | -- | -- | 1.7 | 5.8 | 22.6 | 90.7 | 669.1 | 2313.9 | -- |
-| BandedSolve_General_KL5_KU5 | -- | -- | -- | -- | -- | -- | 2.2 | 8.0 | 30.5 | 121.5 | 884.3 | -- | -- |
-| BandedLU_Factorization | -- | -- | -- | -- | -- | -- | 0.9 | 2.4 | 8.6 | 33.6 | 134.0 | 529.0 | -- |
-| BandedLU_Solve | -- | -- | -- | -- | -- | -- | 1.1 | 3.2 | 11.7 | 45.8 | 182.6 | 729.5 | -- |
-| BandedSolve_MultiRHS | -- | -- | -- | -- | -- | -- | 11.7 | 46.2 | 184.0 | 735.6 | 2943.8 | -- | -- |
-| BandedMatvec_Tridiagonal | -- | -- | -- | -- | -- | -- | 0.6 | 1.5 | 5828.3 | 5723.1 | 5785.5 | 5984.1 | 5856.8 |
-| BandedMatvec_Pentadiagonal | -- | -- | -- | -- | -- | -- | 0.8 | 2.3 | 5738.5 | 5766.8 | 5785.9 | 5433.3 | 5800.6 |
-| BandedSolve_Bandwidth_Scaling | 72.2 | 87.1 | 99.1 | 134.5 | 181.2 | 295.9 | -- | -- | -- | -- | -- | -- | -- |
+| BandedSolve_Tridiagonal | -- | -- | -- | -- | -- | -- | 1.4 | 4.7 | 17.8 | 70.0 | 281.4 | 1514.0 | 6358.4 |
+| BandedSolve_Pentadiagonal | -- | -- | -- | -- | -- | -- | 1.7 | 5.6 | 21.6 | 84.9 | 343.3 | 2010.1 | -- |
+| BandedSolve_General_KL2_KU4 | -- | -- | -- | -- | -- | -- | 1.7 | 5.8 | 22.6 | 90.7 | 660.6 | 2329.8 | -- |
+| BandedSolve_General_KL5_KU5 | -- | -- | -- | -- | -- | -- | 2.1 | 7.8 | 30.3 | 122.7 | 882.2 | -- | -- |
+| BandedLU_Factorization | -- | -- | -- | -- | -- | -- | 0.9 | 2.5 | 8.8 | 34.0 | 135.4 | 537.2 | -- |
+| BandedLU_Solve | -- | -- | -- | -- | -- | -- | 1.1 | 3.2 | 11.9 | 46.3 | 185.2 | 747.5 | -- |
+| BandedSolve_MultiRHS | -- | -- | -- | -- | -- | -- | 12.0 | 46.7 | 186.2 | 742.7 | 3041.3 | -- | -- |
+| BandedMatvec_Tridiagonal | -- | -- | -- | -- | -- | -- | 0.5 | 1.5 | 5083.5 | 3498.8 | 5352.4 | 5637.0 | 5621.0 |
+| BandedMatvec_Pentadiagonal | -- | -- | -- | -- | -- | -- | 0.7 | 2.3 | 5896.0 | 5563.9 | 5906.9 | 5759.0 | 5656.0 |
+| BandedSolve_Bandwidth_Scaling | 73.5 | 85.6 | 99.6 | 137.1 | 183.3 | 293.9 | -- | -- | -- | -- | -- | -- | -- |
 
 *Time in us. Lower is better.*
 
@@ -335,8 +335,8 @@ Lanczos is matrix-free and targets only k eigenvalues — it lives on a separate
 
 | Variant | n=32 us | n=64 us | n=128 us | n=256 us | n=512 us |
 |---------|---------|---------|----------|----------|----------|
-| seq | 171.1 | 1189.9 | 10779.5 | 260829.1 | 7211829.7 |
-| EigSym<Backend::lapack> | 52.5 | 178.3 | 1096.4 | 3507.1 | 20511.3 |
+| seq | 161.4 | 1170.9 | 10559.8 | 266403.9 | 7169476.9 |
+| EigSym<Backend::lapack> | 51.1 | 177.6 | 962.8 | 3701.5 | 19275.6 |
 
 *Time in us. Lower is better.*
 
@@ -347,7 +347,7 @@ k = 10 eigenvalues requested. Each step costs one matvec O(n²) plus reorthogona
 
 | Variant | n=64 us | n=128 us | n=256 us | n=512 us | n=1024 us | n=2048 us |
 |---------|---------|----------|----------|----------|-----------|-----------|
-| Lanczos | 27.1 | 196.7 | 447.3 | 816.0 | 2078.9 | 9465.7 |
+| Lanczos | 28.9 | 188.2 | 402.4 | 952.6 | 2118.0 | 5831.3 |
 
 *Time in us (k=10 eigenvalues). Lower is better.*
 
@@ -376,7 +376,7 @@ Three variants: **our one-sided Jacobi**, **randomized truncated SVD** (top k = 
 
 | Variant | n=64 us | n=128 us | n=256 us | n=512 us | n=1024 us |
 |---------|---------|----------|----------|----------|-----------|
-| SVD_Randomized | 189.9 | 2620.1 | 13943.8 | 344842.3 | 2488064.3 |
+| SVD_Randomized | 193.1 | 1494.2 | 15365.3 | 292015.1 | 2423553.2 |
 
 *Time in us (k=n/8 singular values). Lower is better.*
 
@@ -393,7 +393,7 @@ Root finding (bisection, Newton, secant) and numerical quadrature
 | Suite | Tests | Passed | Failed | Time |
 |-------|------:|-------:|-------:|-----:|
 | Roots | 9 | 9 | 0 | 0.0 ms |
-| Quadrature | 11 | 11 | 0 | 13.0 ms |
+| Quadrature | 11 | 11 | 0 | 32.0 ms |
 
 
 ---
@@ -406,8 +406,8 @@ Backends: `seq` (Cooley-Tukey), `simd` (AVX2/NEON), `fftw` (FFTW3).
 
 | Suite | Tests | Passed | Failed | Time |
 |-------|------:|-------:|-------:|-----:|
-| FFT | 13 | 13 | 0 | 2.0 ms |
-| FFTPlan | 4 | 4 | 0 | 61.0 ms |
+| FFT | 13 | 13 | 0 | 3.0 ms |
+| FFTPlan | 4 | 4 | 0 | 60.0 ms |
 
 
 ### Benchmarks — Forward FFT
@@ -417,10 +417,10 @@ Backends: `seq` (Cooley-Tukey), `simd` (AVX2/NEON), `fftw` (FFTW3).
 
 | Variant | n=256 GB/s | n=1024 GB/s | n=4096 GB/s | n=16384 GB/s | n=65536 GB/s | n=262144 GB/s | n=1048576 GB/s |
 |---------|------------|-------------|-------------|--------------|--------------|---------------|----------------|
-| seq (Cooley-Tukey) | 2.54 | 2.07 | 1.71 | 1.42 | 1.19 | 1.10 | -- |
-| simd (AVX2/NEON) | 6.75 | 5.93 | 4.83 | 4.19 | 3.20 | 3.15 | -- |
-| std::simd | 4.22 | 3.67 | 3.14 | 2.62 | 2.19 | 2.10 | -- |
-| fftw (FFTW3) | 31.62 | 27.68 | 16.81 | 14.09 | 9.32 | 8.02 | 5.07 |
+| seq (Cooley-Tukey) | 2.40 | 1.93 | 1.64 | 1.37 | 1.18 | 1.06 | -- |
+| simd (AVX2/NEON) | 6.98 | 6.17 | 4.96 | 4.04 | 3.41 | 3.29 | -- |
+| std::simd | 4.20 | 3.63 | 3.14 | 2.54 | 2.25 | 2.10 | -- |
+| fftw (FFTW3) | 38.75 | 28.33 | 16.44 | 15.26 | 10.47 | 8.67 | 5.18 |
 
 *Throughput in GB/s. Higher is better.*
 
@@ -432,10 +432,10 @@ Backends: `seq` (Cooley-Tukey), `simd` (AVX2/NEON), `fftw` (FFTW3).
 
 | Variant | n=256 GB/s | n=1024 GB/s | n=4096 GB/s | n=16384 GB/s | n=65536 GB/s | n=262144 GB/s | n=1048576 GB/s |
 |---------|------------|-------------|-------------|--------------|--------------|---------------|----------------|
-| seq (Cooley-Tukey) | 2.54 | 2.07 | 1.71 | 1.42 | 1.19 | 1.10 | -- |
-| simd (AVX2/NEON) | 6.75 | 5.93 | 4.83 | 4.19 | 3.20 | 3.15 | -- |
-| std::simd | 4.22 | 3.67 | 3.14 | 2.62 | 2.19 | 2.10 | -- |
-| fftw (FFTW3) | 31.62 | 27.68 | 16.81 | 14.09 | 9.32 | 8.02 | 5.07 |
+| seq (Cooley-Tukey) | 2.40 | 1.93 | 1.64 | 1.37 | 1.18 | 1.06 | -- |
+| simd (AVX2/NEON) | 6.98 | 6.17 | 4.96 | 4.04 | 3.41 | 3.29 | -- |
+| std::simd | 4.20 | 3.63 | 3.14 | 2.54 | 2.25 | 2.10 | -- |
+| fftw (FFTW3) | 38.75 | 28.33 | 16.44 | 15.26 | 10.47 | 8.67 | 5.18 |
 
 *Throughput in GB/s. Plan creation excluded. Higher is better.*
 
@@ -447,10 +447,10 @@ Backends: `seq` (Cooley-Tukey), `simd` (AVX2/NEON), `fftw` (FFTW3).
 
 | Variant | n=256 GB/s | n=1024 GB/s | n=4096 GB/s | n=16384 GB/s | n=65536 GB/s | n=262144 GB/s | n=1048576 GB/s |
 |---------|------------|-------------|-------------|--------------|--------------|---------------|----------------|
-| seq (Cooley-Tukey) | 0.66 | 0.53 | 0.43 | 0.36 | 0.31 | 0.28 | -- |
-| simd (AVX2/NEON) | 1.63 | 1.56 | 1.44 | 1.22 | 1.08 | 1.02 | -- |
-| std::simd | 1.25 | 1.17 | 1.06 | 0.94 | 0.83 | 0.77 | -- |
-| fftw (FFTW3) | 0.28 | 0.86 | 1.71 | 2.04 | 2.12 | 1.74 | 1.64 |
+| seq (Cooley-Tukey) | 0.65 | 0.52 | 0.43 | 0.36 | 0.31 | 0.27 | -- |
+| simd (AVX2/NEON) | 1.62 | 1.61 | 1.45 | 1.27 | 1.14 | 1.07 | -- |
+| std::simd | 1.23 | 1.15 | 1.04 | 0.91 | 0.82 | 0.77 | -- |
+| fftw (FFTW3) | 0.28 | 0.84 | 1.68 | 2.01 | 2.16 | 1.76 | 1.66 |
 
 *Throughput in GB/s. Higher is better.*
 
